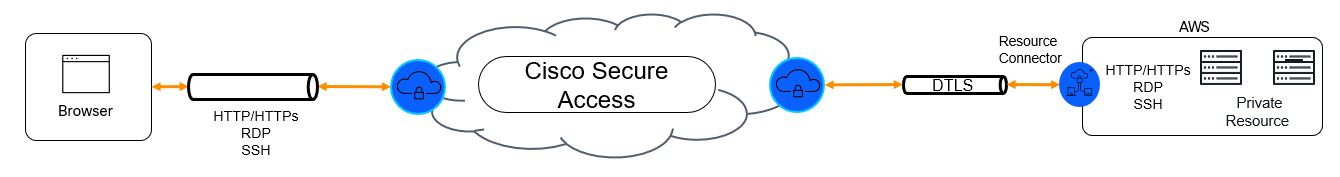
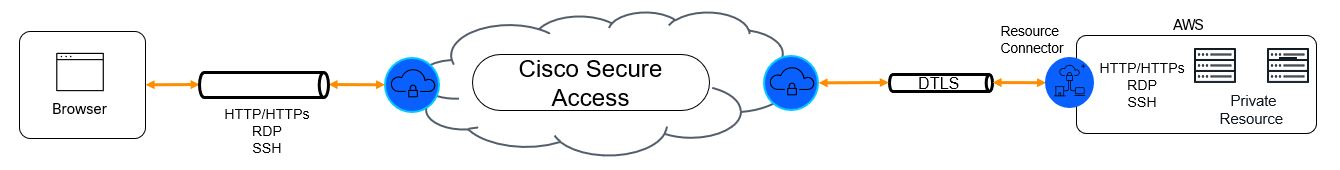
hyperling change and img edit

diff --git a/app/templates/app/index.html b/app/templates/app/index.html
@@ -39,7 +39,7 @@
             <tbody>
                 {% for instance in region.instances %}
                 <tr>
-                    <td><a href="{% url 'instance_detail' instance.InstanceId %}"><code style="margin: 0; display: inline;">{{ instance.InstanceId }}</code></a></td>
+                    <td><a href="{% url 'instance_detail' instance.InstanceId %}">{{ instance.InstanceId }}</a></td>
                     <td>{{ instance.Name }}</td>
                     <td>{{ instance.InstanceType }}</td>
                     <td>
